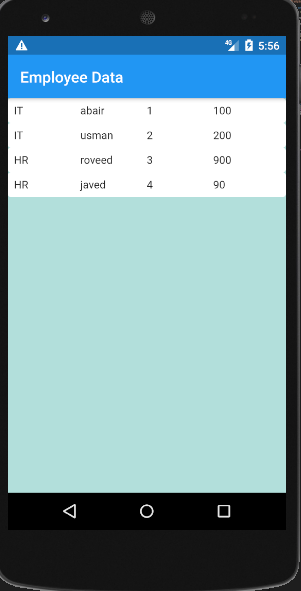
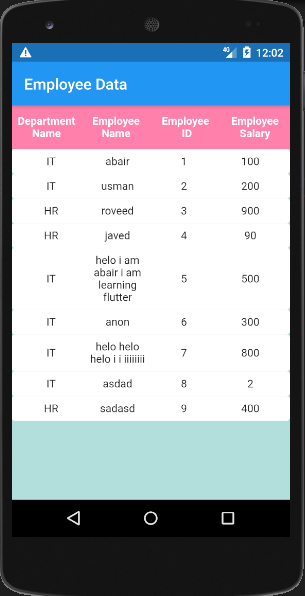
final code

diff --git a/lib/screens/dep_emp_card_list.dart b/lib/screens/dep_emp_card_list.dart
@@ -4,82 +4,137 @@ import 'package:dept_emp_data/Models/employeedata.dart';
 import 'package:flutter/material.dart';
 import 'package:http/http.dart' as http;
 
-
 class dept_emp_list extends StatefulWidget {
   @override
   _dept_emp_listState createState() => _dept_emp_listState();
 }
 
 class _dept_emp_listState extends State<dept_emp_list> {
-
-  
   List<employee_data> emprecord = [];
 
-
   Future<List<employee_data>> _getdeptemp() async {
-      final response = await http.get('https://unlabelled-argument.000webhostapp.com/db_dept_emp_info.php');
-      if(response.statusCode==200){
-        List paresd = jsonDecode(response.body);
+    final response = await http.get(
+        'https://unlabelled-argument.000webhostapp.com/db_dept_emp_info.php');
+    if (response.statusCode == 200) {
+      
+      List paresd = jsonDecode(response.body);
 
-       return paresd.map((emp) => employee_data.fromJson(emp)).toList();       
-
-      }
-
-       
-
+      return paresd.map((emp) => employee_data.fromJson(emp)).toList();
+    }
   }
-
 
   @override
   void initState() {
-     _getdeptemp();
+    _getdeptemp();
     super.initState();
   }
-
-    
 
   @override
   Widget build(BuildContext context) {
     return Scaffold(
-        backgroundColor: Colors.teal[100],
-        appBar: AppBar(
-          title: Text("Employee Data"),
-        ),
-        body: SafeArea(
-          child: 
-             FutureBuilder(
-               future:  _getdeptemp(),
-               builder: (context,snapshot){ 
-                 if(snapshot.hasData){
-                   
-                    return 
-                                ListView.builder(
-                      itemCount: snapshot.data.length,
-                      itemBuilder: (context, index){
-                    return Card(
-                      elevation: 0,
-                      margin: EdgeInsets.all(0),
-                            child:
-                           Padding(
-                              padding: const EdgeInsets.all(8.0),
-                              child: Row(
-                                children: <Widget>[
-                                  Expanded(child: Text("${snapshot.data[index].departmentname}")),
-                                  Expanded(child: Text("${snapshot.data[index].employeename}")),
-                                  Expanded(child: Text("${snapshot.data[index].employeeid}")),
-                                  Expanded(child: Text("${snapshot.data[index].employeesalary}"))
-                                ],
+      backgroundColor: Colors.teal[100],
+      appBar: AppBar(
+        title: Text("Employee Data"),
+      ),
+      body: SafeArea(
+        child: Column(
+          children: <Widget>[
+            Expanded(
+              flex: 1,
+              child: Container(
+                color: Colors.pinkAccent[100],
+                child: Row(
+                  children: <Widget>[
+                    Expanded(
+                      child: Text(
+                        "Department Name",
+                        textAlign: TextAlign.center,
+                        style: TextStyle(
+                          color: Colors.white,
+                          fontWeight: FontWeight.bold,
+                        ),
+                      ),
+                    ),
+                    Expanded(
+                      child: Text("Employee Name",
+                          textAlign: TextAlign.center,
+                          style: TextStyle(
+                            color: Colors.white,
+                            fontWeight: FontWeight.bold,
+                          )),
+                    ),
+                    Expanded(
+                      child: Text("Employee \n ID",
+                          textAlign: TextAlign.center,
+                          style: TextStyle(
+                            color: Colors.white,
+                            fontWeight: FontWeight.bold,
+                          )),
+                    ),
+                    Expanded(
+                      child: Text("Employee Salary",
+                          textAlign: TextAlign.center,
+                          style: TextStyle(
+                            color: Colors.white,
+                            fontWeight: FontWeight.bold,
+                          )),
+                    ),
+                  ],
+                ),
+              ),
+            ),
+            Expanded(
+              flex: 8,
+              child: Container(
+                child: FutureBuilder(
+                    future: _getdeptemp(),
+                    builder: (context, snapshot) {
+                      if (snapshot.hasData) {
+                        return ListView.builder(
+                          itemCount: snapshot.data.length,
+                          itemBuilder: (context, index) {
+                            return Card(
+                              elevation: 0,
+                              margin: EdgeInsets.all(0),
+                              child: Padding(
+                                padding: const EdgeInsets.all(8.0),
+                                child: Row(
+                                  children: <Widget>[
+                                    Expanded(
+                                        child: Text(
+                                            "${snapshot.data[index].departmentname}",
+                                            textAlign: TextAlign.center,
+                                            )),
+                                    Expanded(
+                                        child: Text(
+                                            "${snapshot.data[index].employeename}",
+                                            textAlign: TextAlign.center,
+                                            )),
+                                    Expanded(
+                                        child: Text(
+                                            "${snapshot.data[index].employeeid}",
+                                            textAlign: TextAlign.center,
+                                            )),
+                                    Expanded(
+                                        child: Text(
+                                            "${snapshot.data[index].employeesalary}",
+                                            textAlign: TextAlign.center,
+                                            ))
+                                  ],
+                                ),
                               ),
-                            ),                            
-                    ); 
-                  },
-                  );
-                }     
-                else{
-                  return Center(child: CircularProgressIndicator());
-                }            
-             }),
-          ),
+                            );
+                          },
+                        );
+                      } else {
+                        return Center(child: CircularProgressIndicator());
+                      }
+                    }),
+              ),
+            ),
+          ],
+        ),
+      ),
     );
   }
 }

diff --git a/lib/Models/employeedata.dart b/lib/Models/employeedata.dart
@@ -19,3 +19,5 @@ class employee_data{
   }
     
 }
+
+
